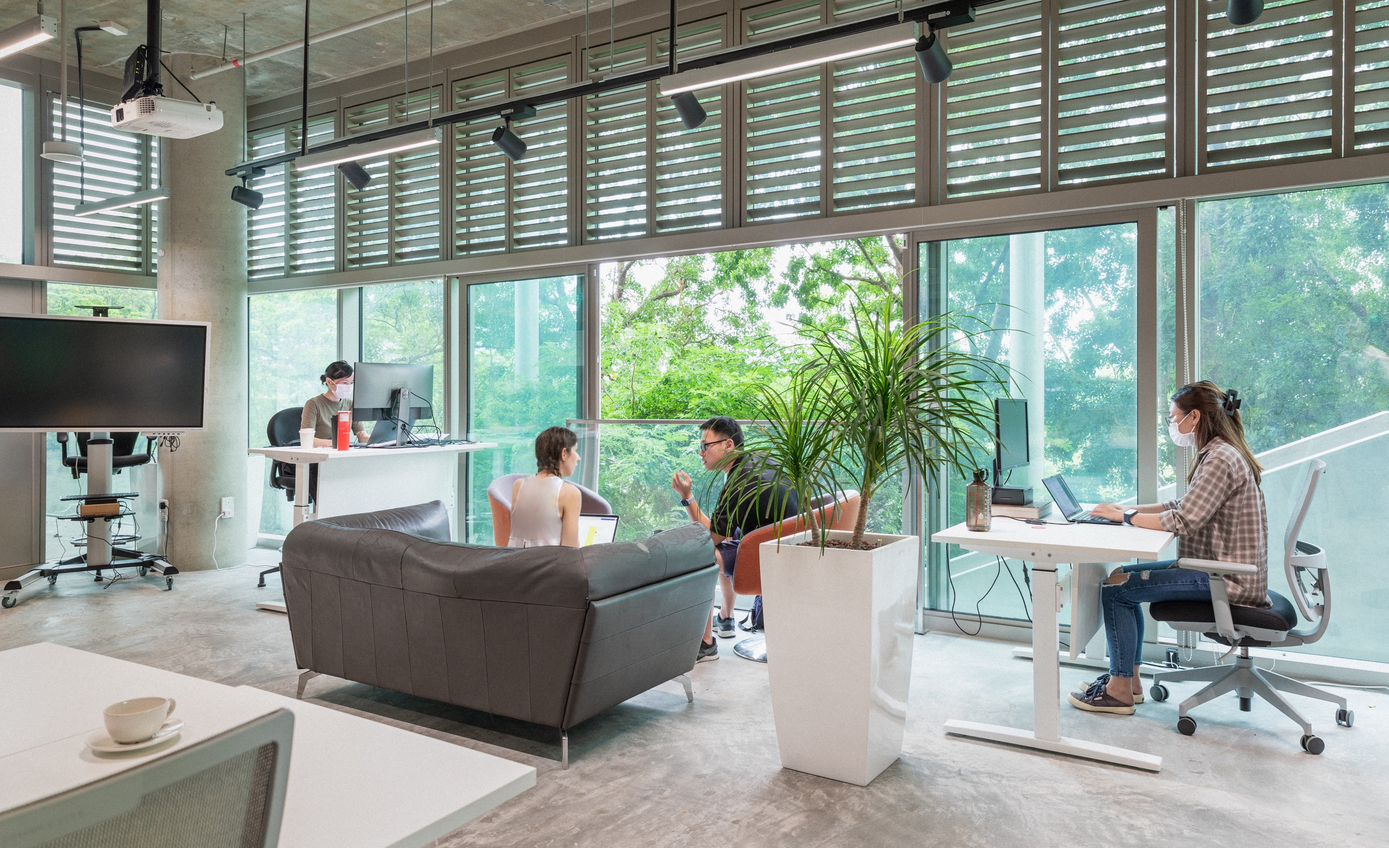
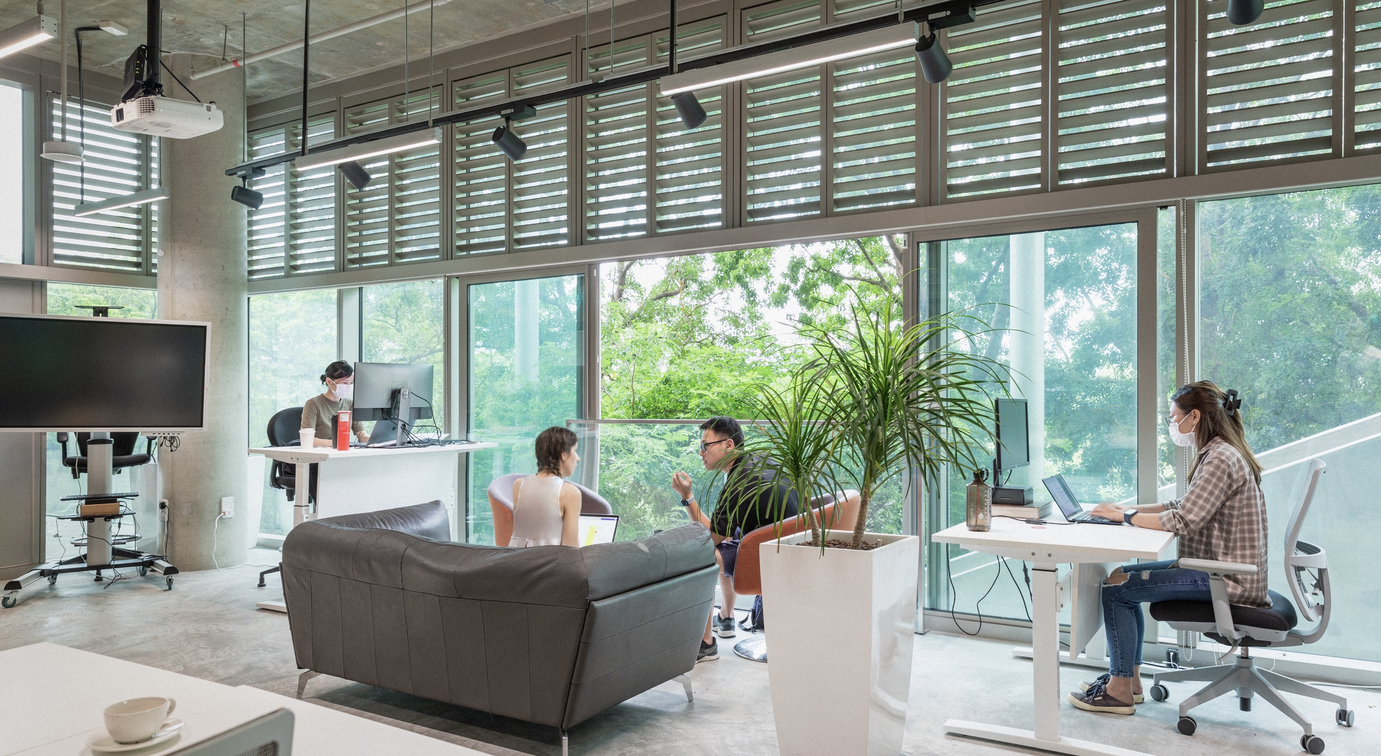
updated layout, index page and navigation

diff --git a/index.html b/index.html
@@ -22,7 +22,7 @@ description: A real-time occupant centric sensing and control strategy
 				<p>Effective mixed-mode ventilation combines data fusion & integration, energy modelling & simulation as well as various machine learning approaches (i.e., deep reinforcement learning) to optimise building performance. </p>
 			</div>
 			<div class="image">
-				<img src="{{ site.baseurl }}/images/office.png" alt="Screenshot" class="screenshot editable" />
+				<img src="{{ site.baseurl }}/images/office-side.png" alt="Screenshot" class="screenshot editable" />
 			</div>
 		</div>
 	</section>

diff --git a/_site/css/screen.css b/_site/css/screen.css
@@ -309,4 +309,8 @@ nav .editor-link:hover, .editor-link .btn:hover, nav .nav-open nav .editor-link:
 
 .cms-editor-active nav .editor-link { display: inline; }
 
+.hero { position: relative; width: 100vw; height: 80vh; }
+
+.hero::before { content: ""; position: absolute; top: 0; left: 0; width: 100%; height: 100%; background: url(../images/office.png); background-repeat: no-repeat; background-size: cover; background-position: center center; filter: brightness(40%); }
+
 /*# sourceMappingURL=screen.css.map */

diff --git a/_site/index.html b/_site/index.html
@@ -88,7 +88,7 @@
 				<p>Effective mixed-mode ventilation combines data fusion & integration, energy modelling & simulation as well as various machine learning approaches (i.e., deep reinforcement learning) to optimise building performance. </p>
 			</div>
 			<div class="image">
-				<img src="/images/office.png" alt="Screenshot" class="screenshot editable" />
+				<img src="/images/office-side.png" alt="Screenshot" class="screenshot editable" />
 			</div>
 		</div>
 	</section>

diff --git a/css/screen.scss b/css/screen.scss
@@ -14,3 +14,22 @@
 @import "navigation";
 @import "footer";
 @import "cloudcannon";
+
+.hero {
+    position: relative;
+    width: 100vw;
+    height: 80vh;
+}
+.hero::before {
+    content: "";
+    position: absolute;
+    top: 0;
+    left: 0;
+    width: 100%;
+    height: 100%;
+    background: url(../images/office.png);
+    background-repeat: no-repeat;
+    background-size: cover;
+    background-position: center center;
+    filter: brightness(40%);
+}
